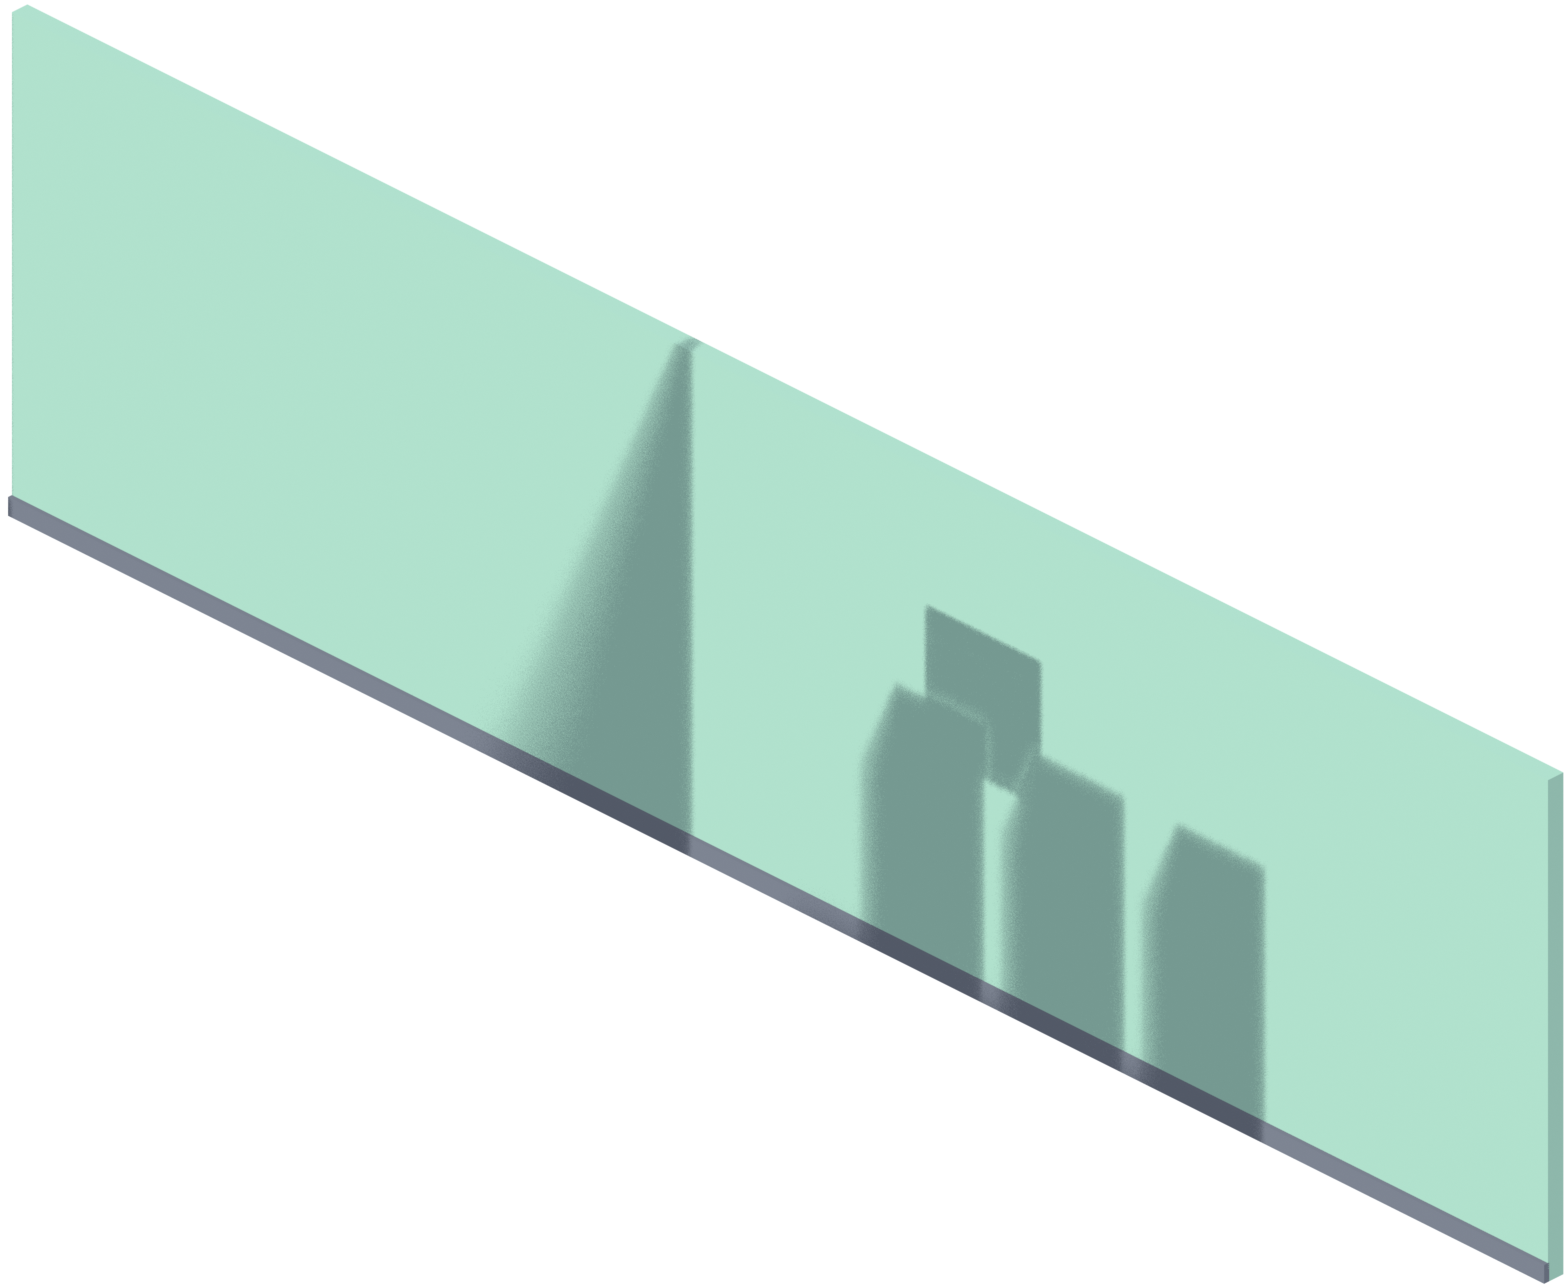
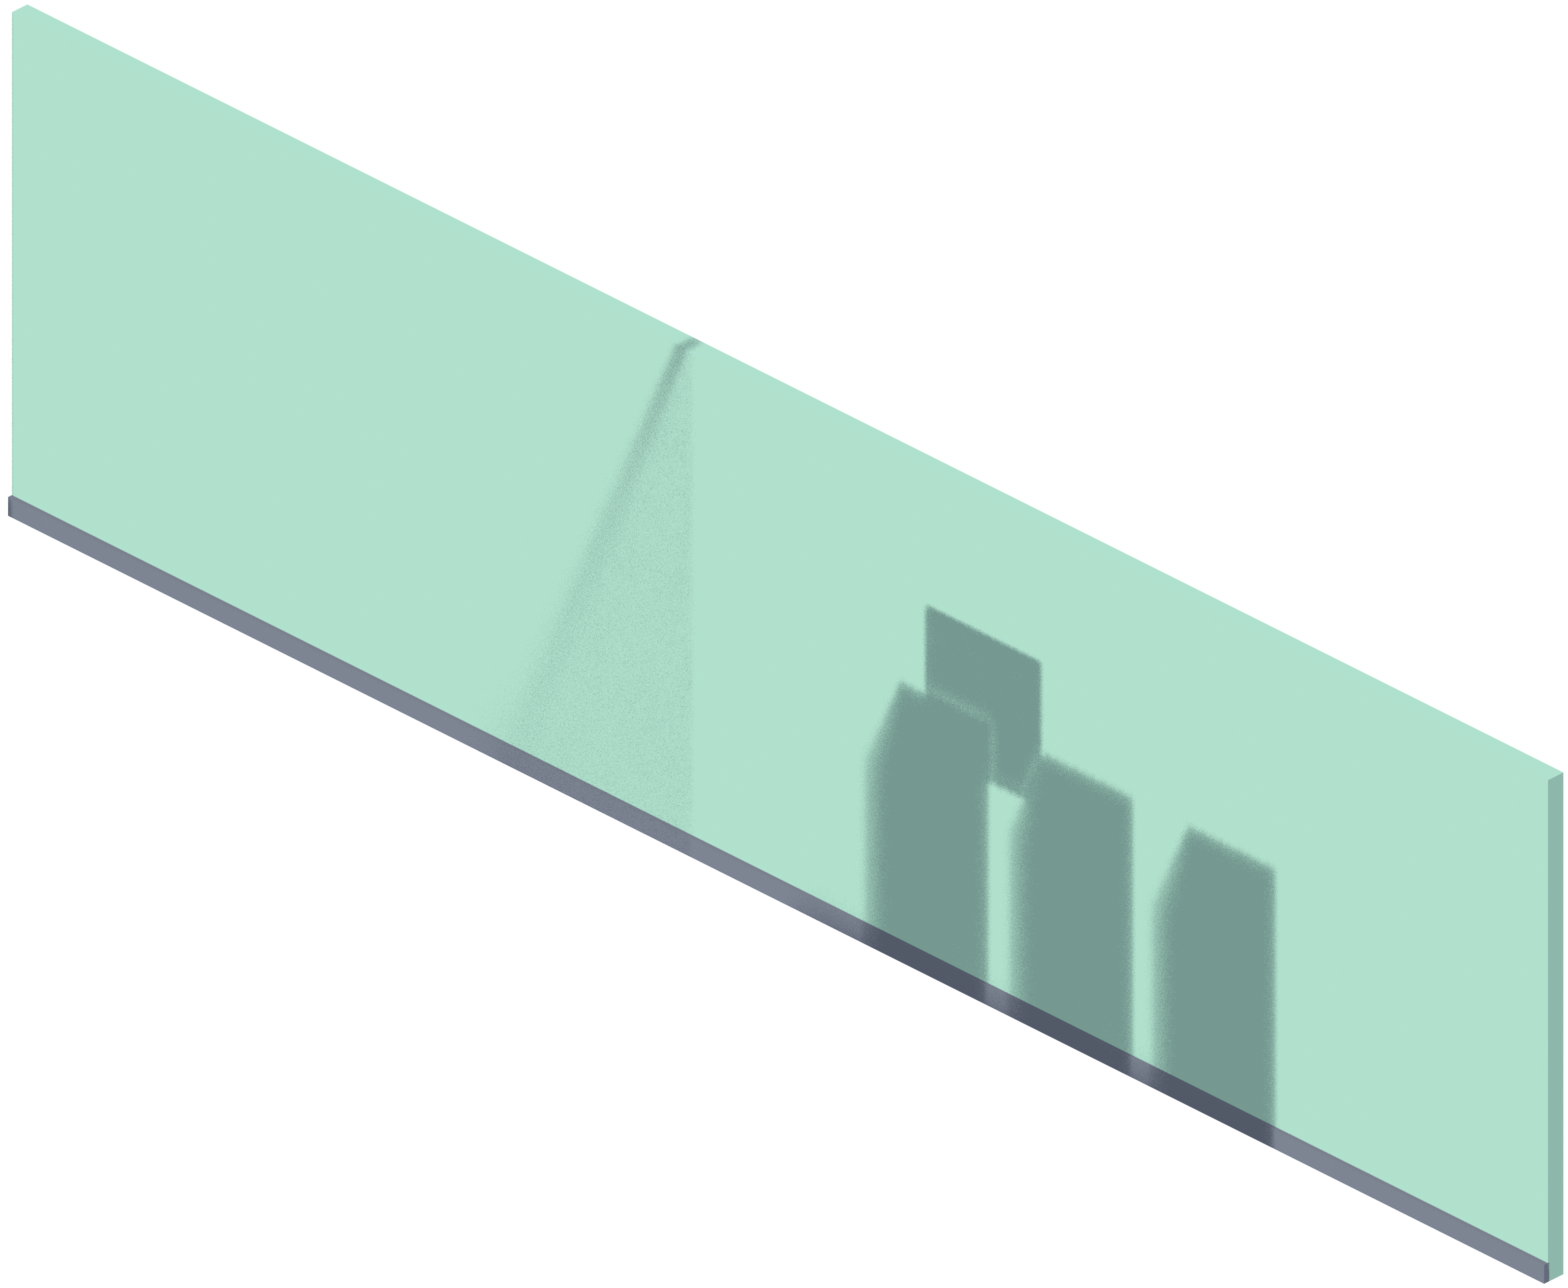
art: data center v2, racks exactos en múltiplos de 8 y vidrio translúcido
RACK_XS/RACK_YS alineados a múltiplos de 0.125 m respecto al rack del garage:
los (dx, dy) de los 9 racks ya no necesitan redondeo (0 px de desvío). Piso y
sombras re-renderizados con esa posición; el vidrio trae su material final.

completar_meta() sigue en build_data_center.py, ahora sin redondeo: falla si un
delta no es múltiplo de 8. data_center.json se generó con ella sobre el JSON
del zip v2.

diff --git a/source_art/blender/build_data_center.py b/source_art/blender/build_data_center.py
@@ -5,9 +5,9 @@ garage/oficina (se reutilizan con (dx,dy)). Nuevo: bay de 9 racks (reutiliza el 
 garage x9, solo cambia la posición), partición de vidrio (decorativa) y placa de Firewall (2 estados).
 Renderiza a 2x: piso (3 variantes), pared_izq (10), pared_der (10), vidrio (1), firewall (2 estados),
 y escribe data_center_meta.json con proyección, cuadrícula, reutilizados_del_garage (desk/door/avatar +
-9 racks) y zonas reservadas para el catálogo extra del equipo. completar_meta() agrega lo que usa el
-juego: lado de servidores ocupado, tramos prohibidos de pared, ysort_m, fijos.racks (rack_id → servidor)
-y los (dx, dy) de los racks redondeados a múltiplos de 8.
+9 racks) y zonas reservadas para el catálogo extra del equipo.
+completar_meta() agrega lo que usa el juego: lado de servidores ocupado, tramos prohibidos de pared,
+ysort_m y fijos.racks (rack_id → servidor).
 Uso: python3 build_data_center.py <salida> <menu.png>
 """
 import sys, math, json, os
@@ -23,7 +23,10 @@ N = 12
 P3 = dict(piso_dc="#394153", junta_dc="#2b3243", vidrio="#9fd3f2", fw_off="#2a3242", fw_on="#5aa9ff")
 M["piso_dc"] = mat("piso_dc", P3["piso_dc"], 0.55)
 M["junta_dc"] = mat("junta_dc", P3["junta_dc"], 0.6)
-M["vidrio_dc"] = mat("vidrio_dc", P3["vidrio"], 0.1, 0.9)
+M["vidrio_dc"] = mat("vidrio_dc", "#8cb8cc", 0.08, 0.0)
+_vb = M["vidrio_dc"].node_tree.nodes["Principled BSDF"]
+if "Alpha" in _vb.inputs: _vb.inputs["Alpha"].default_value = 0.22
+M["vidrio_dc"].blend_method = "BLEND"
 M["fw_panel"] = mat("fw_panel", "#1f2c3f", 0.5)
 M["fw_led"] = mat("fw_led_e", P3["fw_off"], 0.4, 0.0)
 
@@ -67,7 +70,9 @@ vidrio = build_vidrio()
 firewall = build_firewall()
 
 # 9 racks (solo para encuadre/sombra; el sprite real se reutiliza del garage)
-RACK_XS = [7.0, 8.1, 9.2]; RACK_YS = [7.0, 9.0, 11.0]
+# posiciones alineadas a múltiplos de 0.125 m respecto a RACK_REF (0.9, 5.15) para que el
+# delta de cada rack caiga EXACTO en múltiplos de 8 px (sin redondeo, 0 px de desvío).
+RACK_XS = [7.025, 8.15, 9.275]; RACK_YS = [7.025, 9.025, 11.025]
 racks = []
 ri = 1
 for ry in RACK_YS:
@@ -219,18 +224,10 @@ def completar_meta(meta, rack_xs, rack_ys, n):
         "para las referencias personales del equipo; sin objetos todavía."
     )
 
-    # Racks: (dx, dy) a múltiplos de 8 (a 1.1 m de separación salen con decimales y se ven borrosos).
-    reuse = meta["reutilizados_del_garage"]
-    originals = {}
-    for key, value in reuse.items():
-        if key.startswith("rack_"):
-            originals[key.split(" ")[0]] = value
-            reuse[key] = [float(round(v / 8.0) * 8) for v in value]
-    reuse["nota_racks"] = (
-        "Los (dx, dy) de los racks se redondearon a múltiplos de 8 (máx. 4 px en el lienzo 2x); "
-        "build_data_center.py los da con decimales porque los racks están a 1.1 m. Originales: "
-        + ", ".join("%s %s" % (k, v) for k, v in originals.items())
-    )
+    # Los (dx, dy) de los racks deben caer exactos en múltiplos de 8 (RACK_XS/RACK_YS están alineados).
+    for key, value in meta["reutilizados_del_garage"].items():
+        if key.startswith("rack_") and any(v % 8.0 != 0.0 for v in value):
+            raise ValueError("%s no cae en múltiplos de 8: %s" % (key, value))
 
     # Centro de la huella para el y-sort (ancla del rack + (0.3, 0.45), igual que en la oficina).
     ysort = {"nota": "Centro de la huella (metros) de la mesa con el avatar y de cada rack.", "mesa": [1.0, 2.3]}
@@ -239,7 +236,7 @@ def completar_meta(meta, rack_xs, rack_ys, n):
     for ry in rack_ys:
         for rx in rack_xs:
             rack_id = "rack_%d" % index
-            ysort[rack_id] = [round(rx + 0.3, 2), round(ry + 0.45, 2)]
+            ysort[rack_id] = [round(rx + 0.3, 3), round(ry + 0.45, 3)]
             racks.append({"rack_id": rack_id, "servidor": index})
             index += 1
     meta["ysort_m"] = ysort
